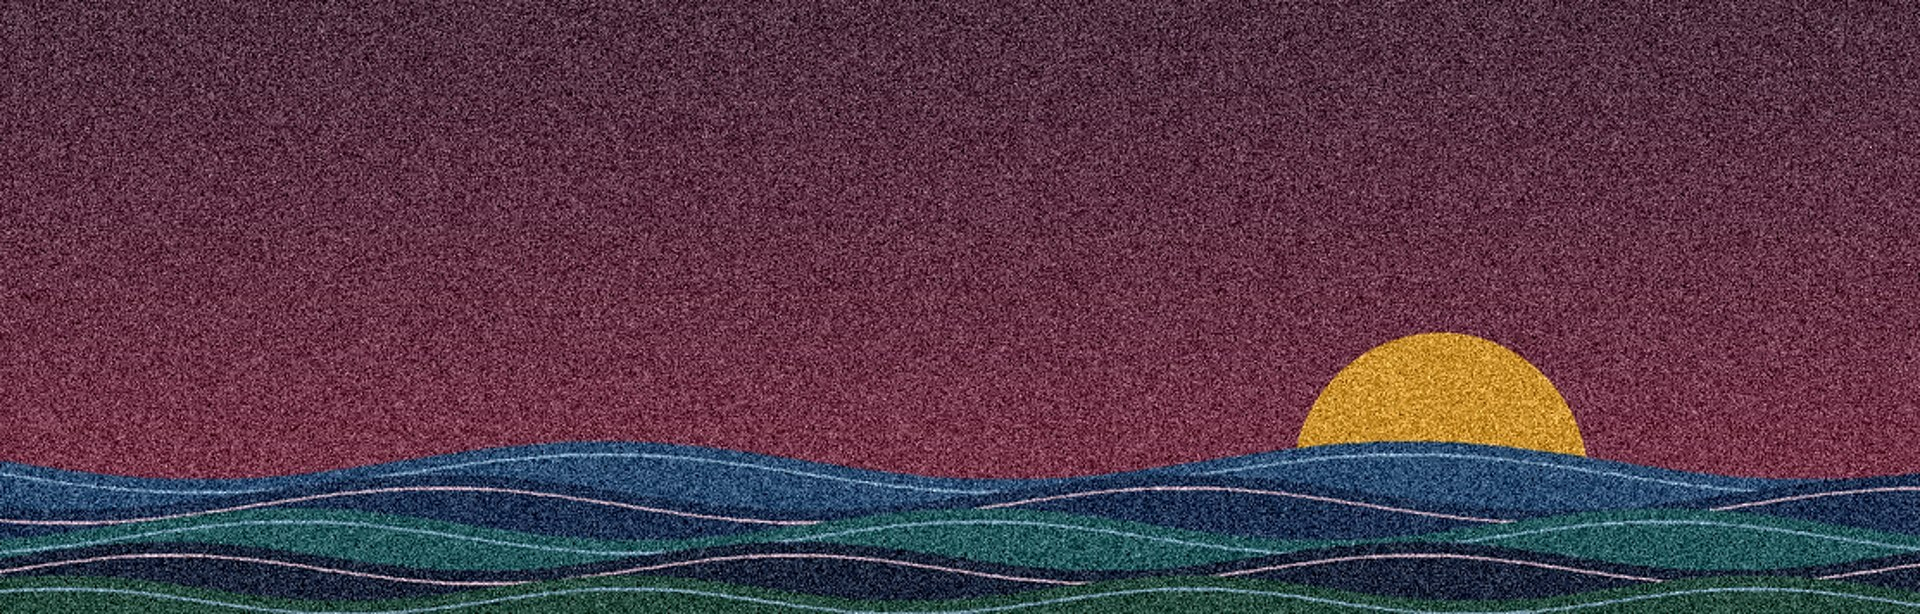
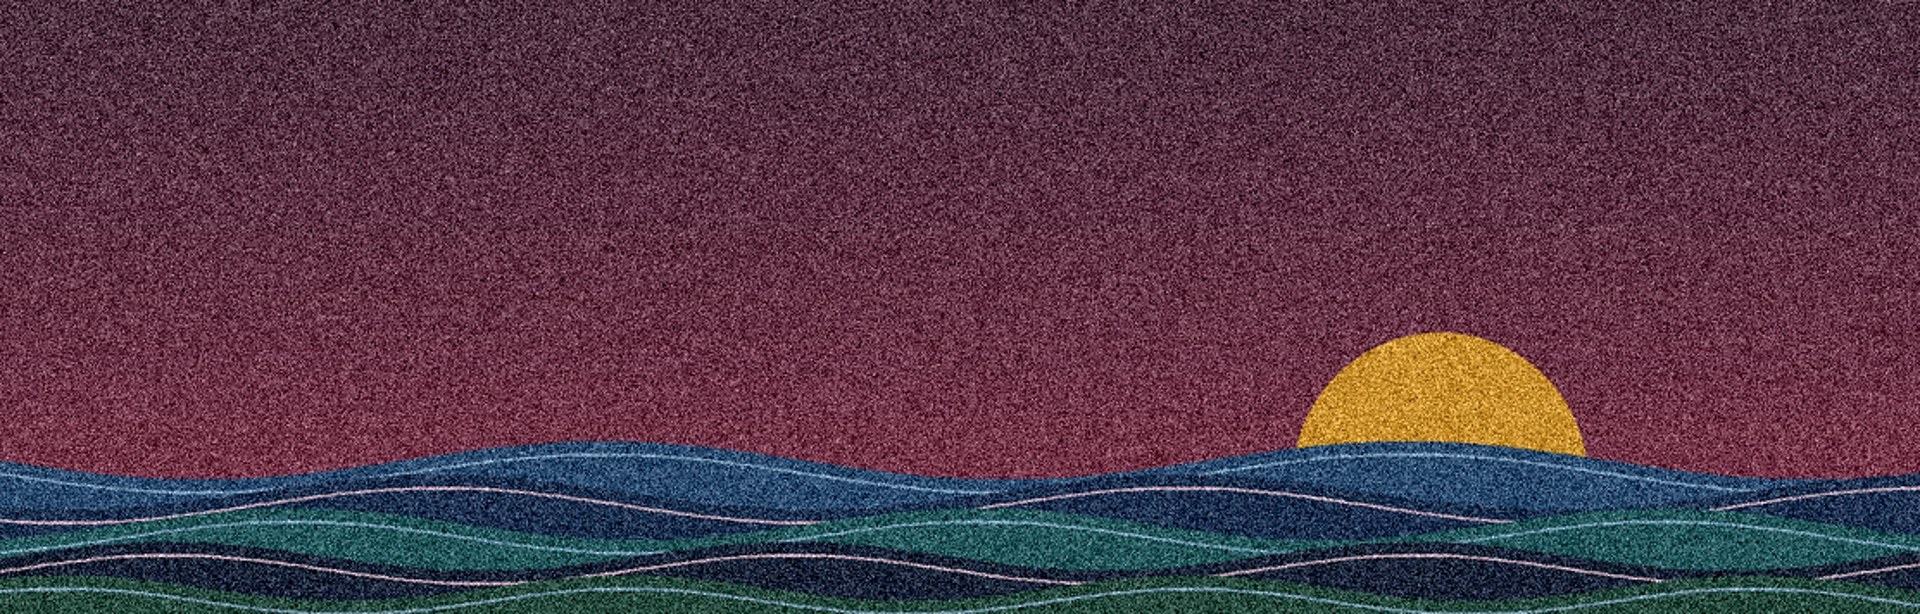
Add signup option 7: wine sunset with the blush moon colour
Claude-Session: https://claude.ai/code/session_01CPFfiZz4rjPwAdTY8Ptavd

diff --git a/art/blog/signup_bands.py b/art/blog/signup_bands.py
@@ -88,3 +88,22 @@ rng5 = np.random.default_rng(25)
 a5 = np.asarray(small, dtype=float) + rng5.normal(0, 30, (352, 1100, 1))
 Image.fromarray(np.clip(a5, 0, 255).astype('uint8')).resize((1920, 614), Image.BICUBIC).save(OUT + 'signup_wine_sunset.jpg', quality=88)
 print('done 5')
+
+# 7 Wine sunset with the moon's colour: option 5, but the sun takes the blush moon colour of the original band
+im = Image.fromarray(np.clip(base, 0, 255).astype('uint8'))
+moon_mauve = np.array(hx('E3B9A6'), float); moon_paper = np.array(hx('F5EEE3'), float)
+tone = moon_mauve[None, None]*(1 - (fbm*0.6)[..., None]) + moon_paper[None, None]*(fbm*0.6)[..., None]
+mask = Image.new('L', (W, H), 0); ImageDraw.Draw(mask).ellipse([(900-92)*S, (290-92)*S, (900+92)*S, (290+92)*S], fill=255)
+im.paste(Image.fromarray(np.clip(tone, 0, 255).astype('uint8')), (0, 0), mask)
+d = ImageDraw.Draw(im); d.rectangle([0, 290*S, W, H], fill=mixc(c['wine'], c['ink'], 0.7))
+blush = (229, 202, 186)
+rng = np.random.default_rng(5)
+for k in range(5):
+    y = 298 + k*9; w = 170 - k*24
+    d.rounded_rectangle([(900 - w/2 + rng.normal(0, 6))*S, y*S, (900 + w/2)*S, (y+3)*S], radius=2*S, fill=blush if k < 3 else mixc(blush, c['wine'], 0.4))
+seigaiha(im, 340, [c['plum'], mixc(c['wine'], c['ink'], 0.4)], r=18, line=mixc(c['wine'], c['ink'], 0.7))
+small = im.resize((1100, 352), Image.LANCZOS)
+rng7 = np.random.default_rng(27)
+a7 = np.asarray(small, dtype=float) + rng7.normal(0, 30, (352, 1100, 1))
+Image.fromarray(np.clip(a7, 0, 255).astype('uint8')).resize((1920, 614), Image.BICUBIC).save(OUT + 'signup_wine_sunset_blush.jpg', quality=88)
+print('done 7')
